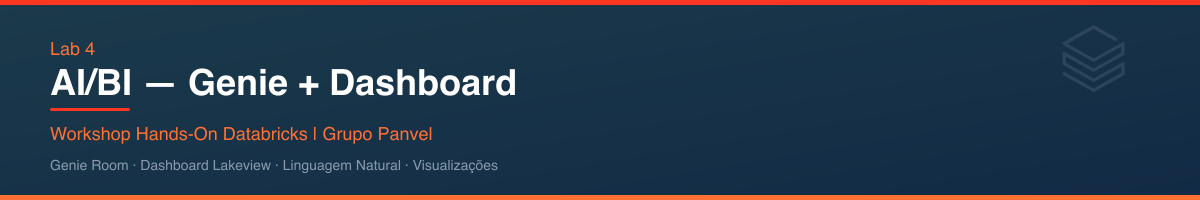
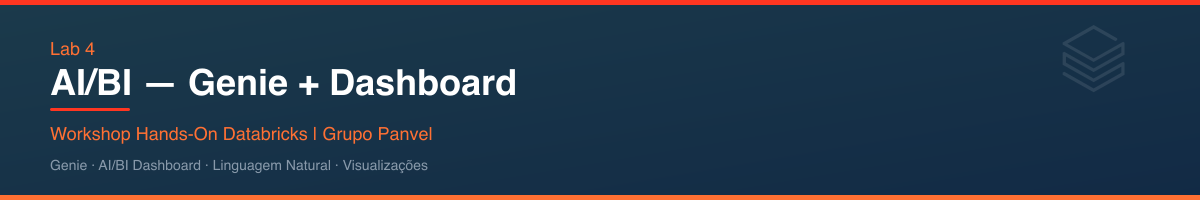
Replace 'Dashboard Lakeview' with 'AI/BI Dashboard' and 'Genie Room(s)' with 'Genie'

Changed region(s): [[0.0617, 0.78, 0.4317, 0.87]]

diff --git a/04_Lab_AIBI/04b_genie_dashboard_todo.py b/04_Lab_AIBI/04b_genie_dashboard_todo.py
@@ -2,7 +2,7 @@
 # MAGIC %md
 # MAGIC <img src="https://raw.githubusercontent.com/juliandrof/workshop-panvel/main/images/header_lab4.png" width="100%"/>
 # MAGIC
-# MAGIC **Versão Exercício** — Complete os TO-DOs para criar seu Genie Room e Dashboard!
+# MAGIC **Versão Exercício** — Complete os TO-DOs para criar seu Genie e Dashboard!
 
 # COMMAND ----------
 
@@ -96,18 +96,18 @@ print("Comentários adicionados!")
 # COMMAND ----------
 
 # MAGIC %md
-# MAGIC ## 3. Criar Genie Room (no UI)
+# MAGIC ## 3. Criar Genie (no UI)
 # MAGIC
-# MAGIC ### TODO 3: Crie o Genie Room no Databricks
+# MAGIC ### TODO 3: Crie o Genie no Databricks
 # MAGIC
-# MAGIC 1. Vá em **AI/BI** > **Genie Rooms** > **New Genie Room**
+# MAGIC 1. Vá em **AI/BI** > **Genie** > **New Genie**
 # MAGIC 2. Nome: `Análise Panvel - <seu_nome>`
 # MAGIC 3. **Adicione as seguintes tabelas:**
 
 # COMMAND ----------
 
 # Listar tabelas disponíveis para o Genie
-print(f"Tabelas para adicionar ao Genie Room:")
+print(f"Tabelas para adicionar ao Genie:")
 print(f"{'='*60}")
 
 tabelas_genie = [
@@ -128,7 +128,7 @@ for t in tabelas_genie:
 
 # COMMAND ----------
 
-# TODO 4: Escreva instruções customizadas para o Genie Room
+# TODO 4: Escreva instruções customizadas para o Genie
 # ──────────────────────────────────────────────────────────
 # Dica: As instruções ajudam o Genie a entender o contexto dos dados.
 # Inclua:
@@ -136,7 +136,7 @@ for t in tabelas_genie:
 #   - Regras: "Valores em R$", "Nome da loja = Panvel - Bairro"
 #   - Exemplos de perguntas que os usuários podem fazer
 #
-# Cole as instruções no campo "Instructions" do Genie Room
+# Cole as instruções no campo "Instructions" do Genie
 
 # ▼▼▼ Escreva suas instruções aqui ▼▼▼
 instrucoes = """
@@ -156,7 +156,7 @@ print(instrucoes)
 # COMMAND ----------
 
 # MAGIC %md
-# MAGIC ## 4. Criar Dashboard Lakeview (no UI)
+# MAGIC ## 4. Criar AI/BI Dashboard (no UI)
 # MAGIC
 # MAGIC ### TODO 5: Crie o Dashboard
 # MAGIC
@@ -211,11 +211,11 @@ LIMIT 15
 # COMMAND ----------
 
 # MAGIC %md
-# MAGIC ## 5. Testar o Genie Room
+# MAGIC ## 5. Testar o Genie
 # MAGIC
 # MAGIC ### TODO 6: Teste o Genie com estas perguntas
 # MAGIC
-# MAGIC Abra seu Genie Room e faça as seguintes perguntas:
+# MAGIC Abra seu Genie e faça as seguintes perguntas:
 # MAGIC
 # MAGIC 1. "Qual é o faturamento total?"
 # MAGIC 2. "Quais são os 5 produtos mais vendidos?"

diff --git a/04_Lab_AIBI/04a_genie_dashboard_completo.py b/04_Lab_AIBI/04a_genie_dashboard_completo.py
@@ -4,8 +4,8 @@
 # MAGIC
 # MAGIC **Versão Completa** — Neste lab, vamos:
 # MAGIC 1. Preparar dados para o AI/BI Genie
-# MAGIC 2. Criar um Genie Room com instruções customizadas
-# MAGIC 3. Construir um Dashboard Lakeview
+# MAGIC 2. Criar um Genie com instruções customizadas
+# MAGIC 3. Construir um AI/BI Dashboard
 
 # COMMAND ----------
 
@@ -137,11 +137,11 @@ print("Comentários adicionados às tabelas!")
 # COMMAND ----------
 
 # MAGIC %md
-# MAGIC ## 3. Criar Genie Room
+# MAGIC ## 3. Criar Genie
 # MAGIC
 # MAGIC ### Passo a passo no Databricks UI:
 # MAGIC
-# MAGIC 1. Vá em **AI/BI** > **Genie Rooms** > **New Genie Room**
+# MAGIC 1. Vá em **AI/BI** > **Genie** > **New Genie**
 # MAGIC 2. Nome: `Análise Panvel - <seu_nome>`
 # MAGIC 3. **Adicione as tabelas:**
 # MAGIC    - `workshop_panvel_<nome>.gold.gold_vendas_por_loja`
@@ -184,12 +184,12 @@ print("INSTRUÇÕES PARA O GENIE ROOM")
 print("=" * 60)
 print(instrucoes_genie)
 print("=" * 60)
-print("\nCopie as instruções acima e cole no campo 'Instructions' do Genie Room")
+print("\nCopie as instruções acima e cole no campo 'Instructions' do Genie")
 
 # COMMAND ----------
 
 # MAGIC %md
-# MAGIC ## 4. Criar Dashboard Lakeview
+# MAGIC ## 4. Criar AI/BI Dashboard
 # MAGIC
 # MAGIC ### Passo a passo no Databricks UI:
 # MAGIC
@@ -326,9 +326,9 @@ for nome_query, sql in queries.items():
 # COMMAND ----------
 
 # MAGIC %md
-# MAGIC ## 6. Testar o Genie Room
+# MAGIC ## 6. Testar o Genie
 # MAGIC
-# MAGIC Após criar o Genie Room, teste com as seguintes perguntas:
+# MAGIC Após criar o Genie, teste com as seguintes perguntas:
 # MAGIC
 # MAGIC 1. **"Qual é o faturamento total?"**
 # MAGIC 2. **"Quais são os 5 produtos mais vendidos?"**
@@ -348,4 +348,4 @@ for nome_query, sql in queries.items():
 # MAGIC - **Lab 1** - SDP: Pipeline DLT com Auto Loader (Bronze/Silver/Gold)
 # MAGIC - **Lab 2** - Jobs: Workflow orquestrando múltiplas tarefas
 # MAGIC - **Lab 3** - ML: Segmentação de clientes com RFM + K-Means
-# MAGIC - **Lab 4** - AI/BI: Genie Room + Dashboard Lakeview
+# MAGIC - **Lab 4** - AI/BI: Genie + AI/BI Dashboard

diff --git a/build_deck.py b/build_deck.py
@@ -262,7 +262,7 @@ def main():
         "Lab 3 — Machine Learning\n"
         "Segmentação de clientes com RFM + K-Means + MLflow\n\n"
         "Lab 4 — AI/BI Genie + Dashboard\n"
-        "Genie Room com linguagem natural e Dashboard Lakeview interativo"
+        "Genie com linguagem natural e AI/BI Dashboard interativo"
     )
     reqs += create_textbox("sl_agenda", "a_body", agenda_text,
         0.5, 1.1, 9, 4.0, font_size=13, color=DARK_TEXT)
@@ -573,7 +573,7 @@ def main():
     reqs += create_rect("sl_lab4", "l4_line", 0.5, 0.85, 1.5, 0.04, RED)
 
     reqs += create_textbox("sl_lab4", "l4_left_t",
-        "Genie Room",
+        "Genie",
         0.5, 1.1, 4.2, 0.35, font_size=14, bold=True, color=NAVY)
     reqs += create_textbox("sl_lab4", "l4_left",
         "• Perguntas em linguagem natural\n"
@@ -585,7 +585,7 @@ def main():
         0.5, 1.5, 4.2, 2.5, font_size=12, color=DARK_TEXT)
 
     reqs += create_textbox("sl_lab4", "l4_right_t",
-        "Dashboard Lakeview",
+        "AI/BI Dashboard",
         5.3, 1.1, 4.2, 0.35, font_size=14, bold=True, color=NAVY)
     reqs += create_textbox("sl_lab4", "l4_right",
         "• KPIs: vendas, faturamento, ticket médio\n"
@@ -617,12 +617,12 @@ def main():
         "  TODO 1: Criar view de vendas com produtos\n"
         "  TODO 2: Adicionar comentários às tabelas\n"
         "  TODO 4: Escrever instruções do Genie\n\n"
-        "Passo 2 — Crie o Genie Room\n"
-        "AI/BI > Genie Rooms > New Genie Room\n"
+        "Passo 2 — Crie o Genie\n"
+        "AI/BI > Genie > New Genie\n"
         "Nome: Análise Panvel - <seu_nome>\n"
         "Adicione as tabelas gold e views listadas no notebook\n"
         "Cole as instruções customizadas\n\n"
-        "Passo 3 — Crie o Dashboard Lakeview\n"
+        "Passo 3 — Crie o AI/BI Dashboard\n"
         "AI/BI > Dashboards > Create Dashboard\n"
         "Use as queries SQL prontas no notebook\n\n"
         "Passo 4 — Teste o Genie com perguntas!"

diff --git a/README.md b/README.md
@@ -35,7 +35,7 @@ Workshop prático de Databricks personalizado para o time de **Grupo Panvel**, c
 | 01 | **SDP - Pipeline DLT** | Auto Loader, Delta Live Tables, Medallion Architecture (Bronze/Silver/Gold) | 40 min |
 | 02 | **Workflows / Jobs** | Orquestração multi-tarefa, dependências, agendamento | 25 min |
 | 03 | **Machine Learning** | Segmentação de clientes (RFM + K-Means), MLflow, Unity Catalog | 35 min |
-| 04 | **AI/BI** | Genie Room (linguagem natural) + Dashboard Lakeview | 30 min |
+| 04 | **AI/BI** | Genie (linguagem natural) + AI/BI Dashboard | 30 min |
 |    | **Encerramento** | Considerações finais e perguntas | 15 min |
 
 </br>
@@ -48,7 +48,7 @@ Workshop prático de Databricks personalizado para o time de **Grupo Panvel**, c
          ▼
   ┌─────────────┐     ┌─────────────┐     ┌─────────────┐     ┌─────────────────┐
   │   BRONZE    │────▶│   SILVER    │────▶│    GOLD     │────▶│   AI/BI + ML    │
-  │  Auto Loader│     │  Limpeza    │     │  Agregações │     │  Genie Room     │
+  │  Auto Loader│     │  Limpeza    │     │  Agregações │     │  Genie     │
   │  Dados Brutos│     │  Enriquec.  │     │  KPIs       │     │  Dashboard      │
   │             │     │  Bairro     │     │  Rankings   │     │  Segmentação    │
   └─────────────┘     └─────────────┘     └─────────────┘     └─────────────────┘
@@ -242,14 +242,14 @@ workshop-panvel/
 
 | Item | Detalhes |
 | -- | -- |
-| **Objetivo** | Criar Genie Room e Dashboard Lakeview para análise de vendas |
+| **Objetivo** | Criar Genie e AI/BI Dashboard para análise de vendas |
 | **Notebook (exercício)** | `04_Lab_AIBI/04b_genie_dashboard_todo.py` |
 | **Notebook (referência)** | `04_Lab_AIBI/04a_genie_dashboard_completo.py` |
 
 ### Instruções
 
 1. **Complete os TO-DOs** no notebook `04b_genie_dashboard_todo.py`
-2. **Crie o Genie Room**: AI/BI > Genie Rooms > New Genie Room
+2. **Crie o Genie**: AI/BI > Genie > New Genie
 3. **Crie o Dashboard**: AI/BI > Dashboards > Create Dashboard
 4. **Teste o Genie** com perguntas como:
    - *"Qual loja tem o maior faturamento?"*
@@ -258,7 +258,7 @@ workshop-panvel/
 
 ### Conceitos abordados
 - AI/BI Genie (linguagem natural)
-- Dashboard Lakeview
+- AI/BI Dashboard
 - Visualizações: Counter, Bar, Pie, Table
 - Instruções customizadas para contexto
 
